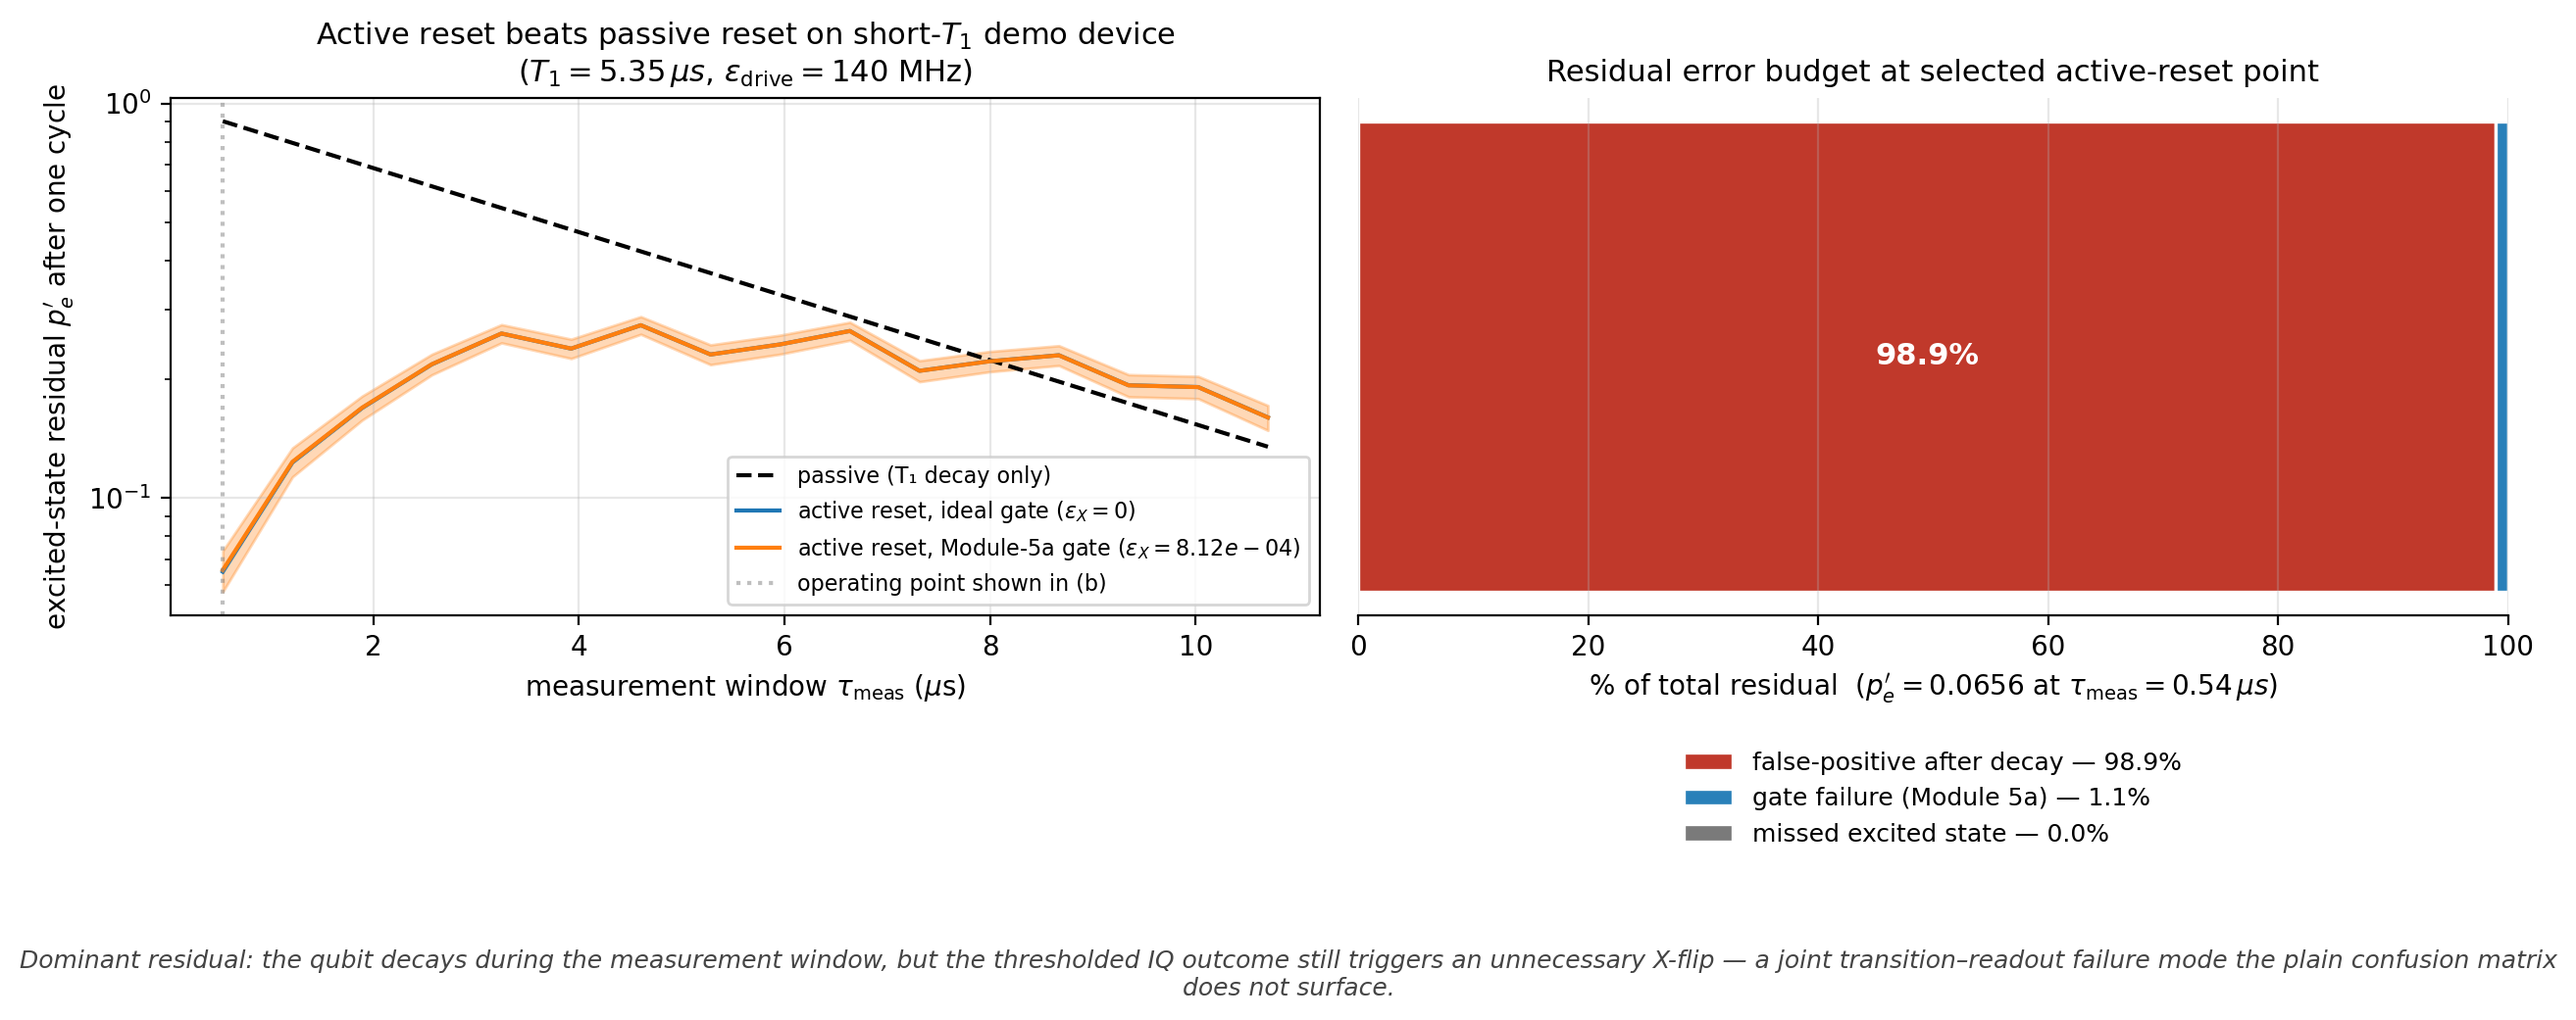
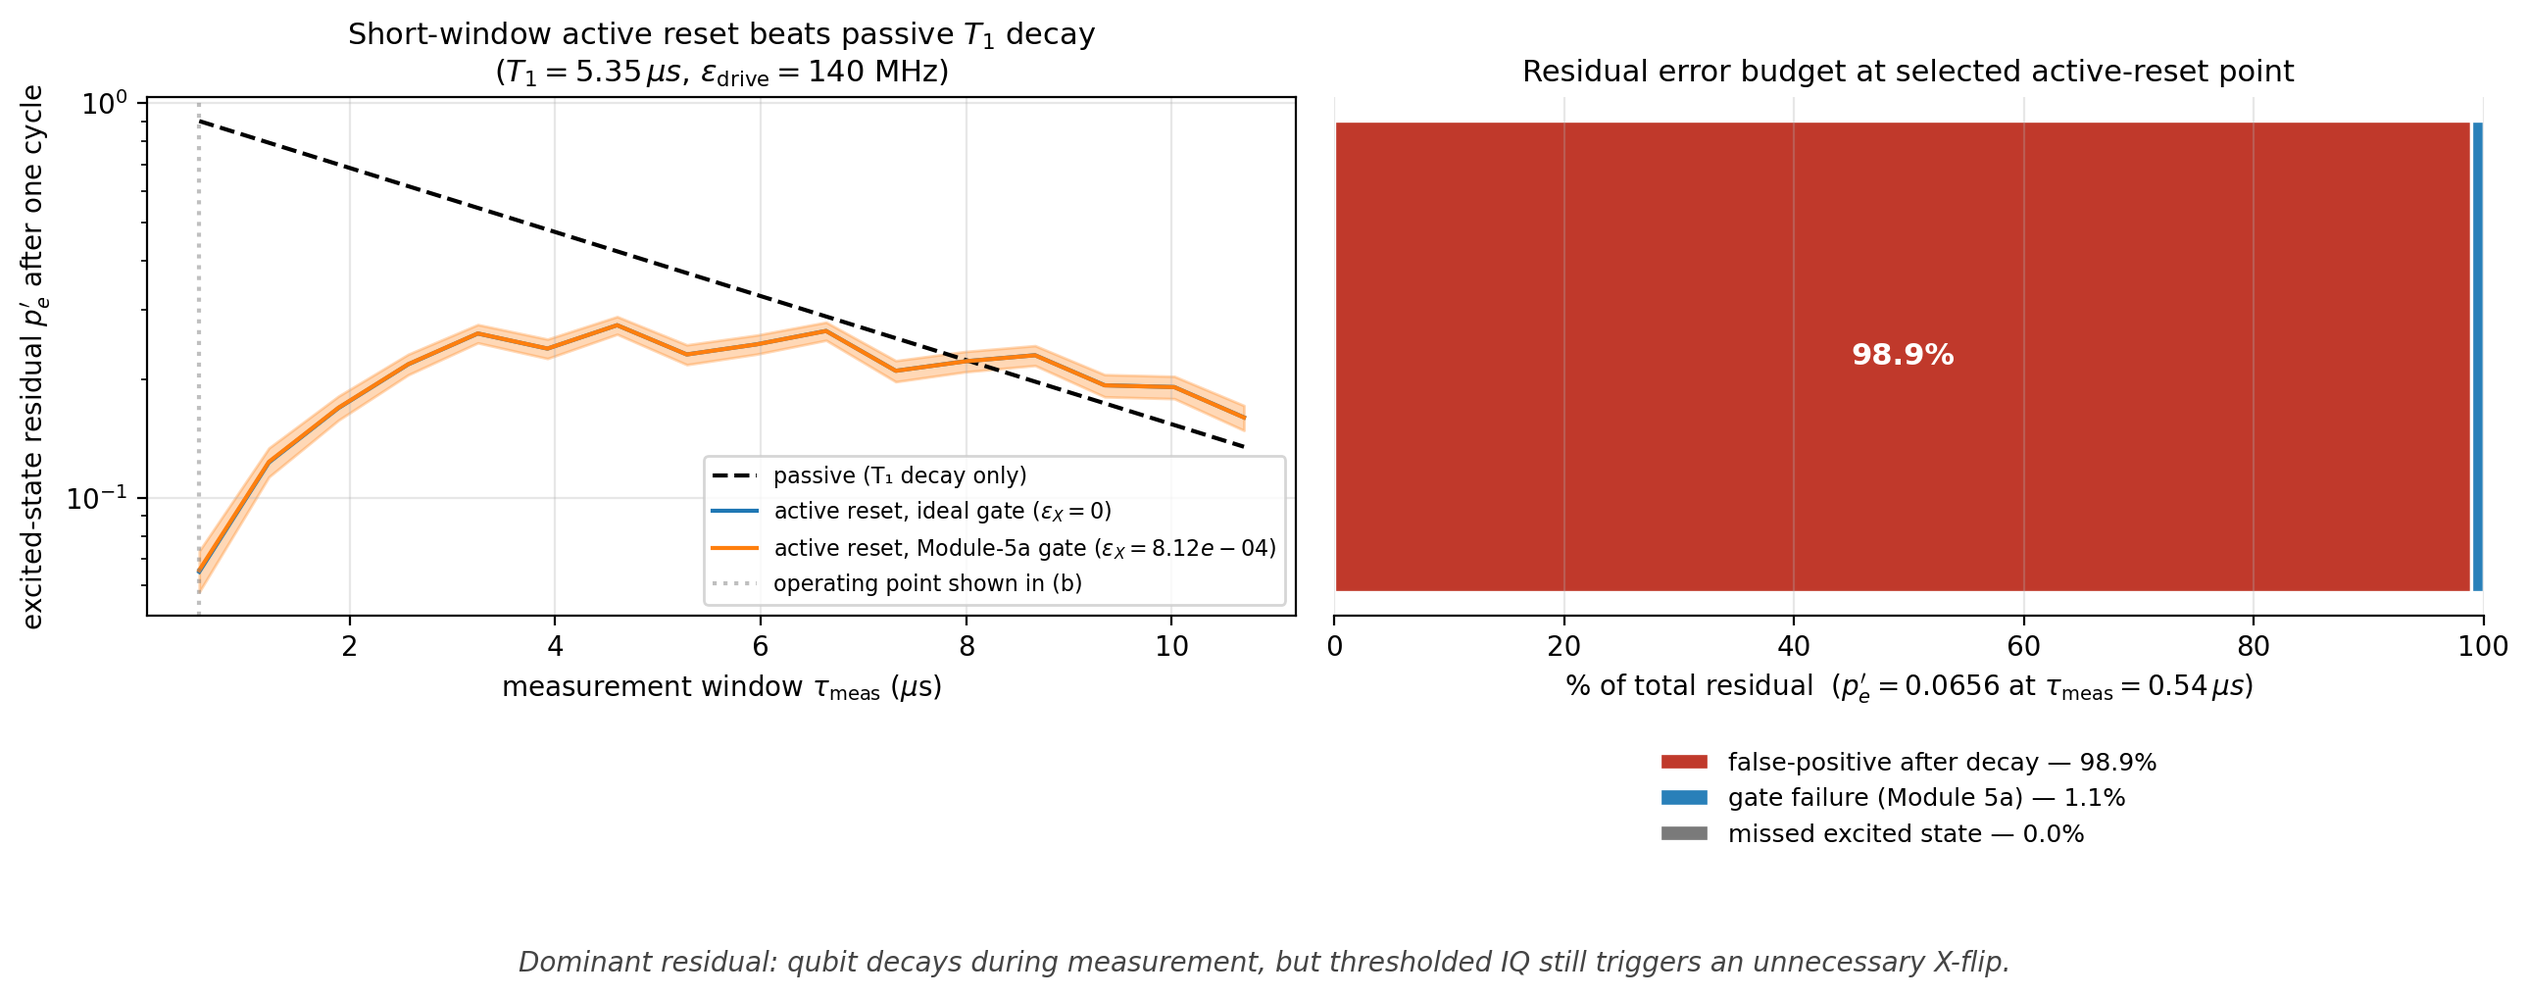
chore(module-5b): tighten fig5b title + caption (round-2 review)
Two small textual changes in the figure renderer:

1. Left-panel title now reads "Short-window active reset beats passive
   T_1 decay" instead of "Active reset beats passive reset on short-T_1
   demo device". The previous wording was too broad — the active curve
   beats passive only at short measurement windows; passive catches up
   at longer waits, and the new title says so honestly.

2. Bottom caption shortened to "Dominant residual: qubit decays during
   measurement, but thresholded IQ still triggers an unnecessary
   X-flip." The "joint-matrix failure mode the plain confusion matrix
   does not surface" clause moves to the README/diagnostic prose where
   it has room to breathe.

YAML and plot data unchanged; only label text differs.

diff --git a/06_Dispersive_Readout/scripts/fig5b_active_reset.py b/06_Dispersive_Readout/scripts/fig5b_active_reset.py
@@ -158,7 +158,7 @@ def main() -> None:
     ax_a.set_ylabel(r"excited-state residual $p_e'$ after one cycle")
     ax_a.set_yscale('log')
     ax_a.set_title(
-        'Active reset beats passive reset on short-$T_1$ demo device\n'
+        r'Short-window active reset beats passive $T_1$ decay' '\n'
         r'($T_1 = 5.35\,\mu s$, $\varepsilon_{\rm drive} = 140$ MHz)',
         fontsize=11,
     )
@@ -215,12 +215,10 @@ def main() -> None:
     # Bottom caption explaining the dominant-residual mechanism in plain language
     fig.text(
         0.5, -0.02,
-        'Dominant residual: the qubit decays during the measurement window, but the '
-        'thresholded IQ outcome still triggers an unnecessary X-flip — a joint '
-        'transition–readout failure mode the plain confusion matrix does not surface.',
+        'Dominant residual: qubit decays during measurement, but thresholded IQ '
+        'still triggers an unnecessary X-flip.',
         ha='center', va='top',
-        fontsize=9, style='italic', color='#444',
-        wrap=True,
+        fontsize=10, style='italic', color='#444',
     )
 
     fig.tight_layout()
